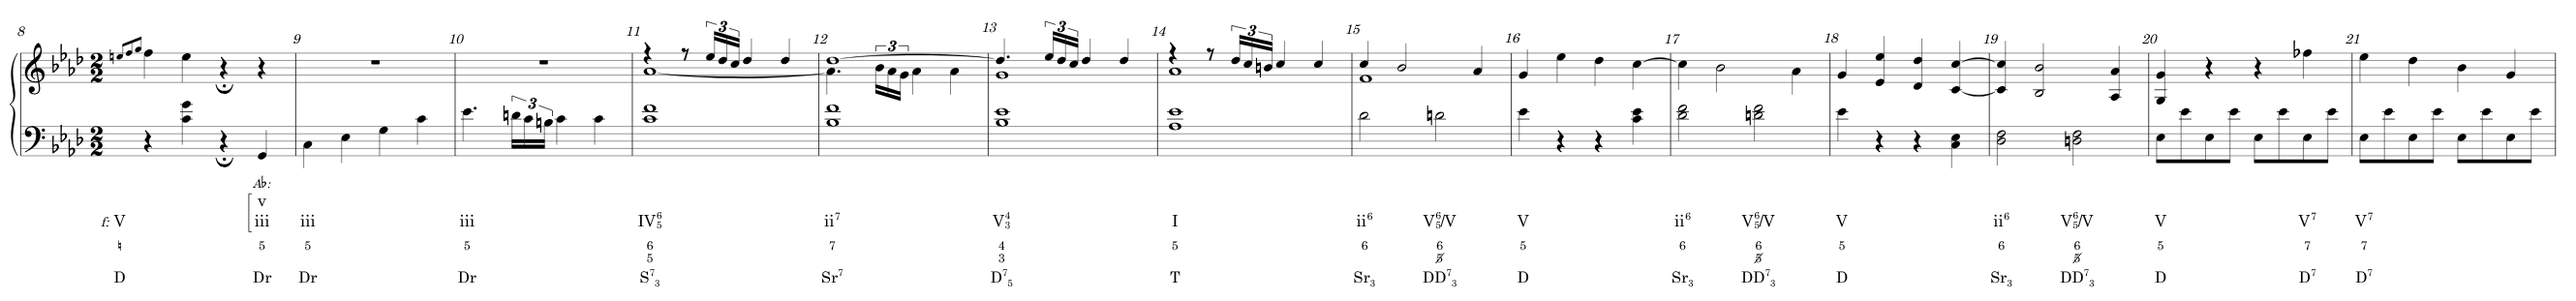
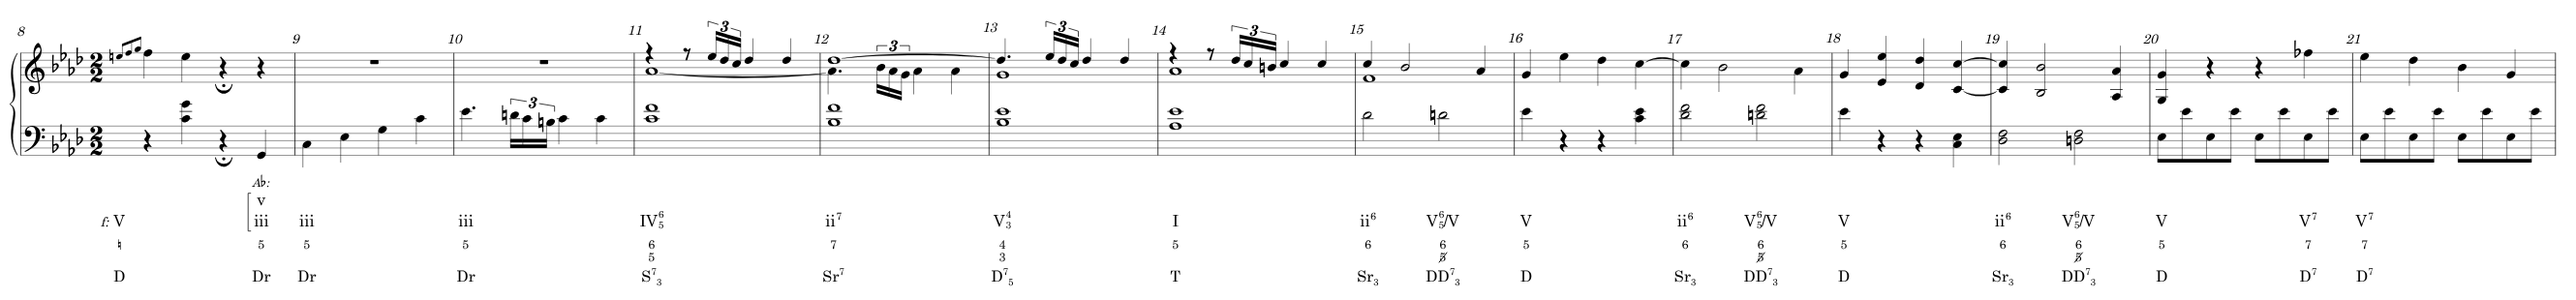
Versión 0.8.10
leftMarginAccid dentro del rango de Verovio; documentación y referencias visuales
actualizadas (más aire ante las alteraciones; métricas de la auditoría sin cambios).

Claude-Session: https://claude.ai/code/session_01M5zyTbCSSNMFeYq5LHXTdr

diff --git a/web/version.js b/web/version.js
@@ -1,2 +1,2 @@
 // Generado por herramientas/sincronizar_version.py a partir de VERSION. No editar a mano.
-window.HF_VERSION='0.8.9';
+window.HF_VERSION='0.8.10';

diff --git a/docs/ESPECIFICACION_GRABADO_MUSICAL.md b/docs/ESPECIFICACION_GRABADO_MUSICAL.md
@@ -406,7 +406,9 @@ Formato de cada regla: **Descripción** · **Referencia** · **Comportamiento es
 ### G. Espaciado
 
 #### `N-ESP-1` — Aire alrededor de alteraciones y silencios
-- **Implementación.** `OPCIONES` (`leftMarginAccid`…). **Estado.** aplicada.
+- **Implementación.** `OPCIONES` (`leftMarginAccid` 2, `rightMarginAccid` 0,8, `leftMarginRest` 2, `rightMarginRest` 1).
+  Hasta la v0.8.9 `leftMarginAccid` valía 2,2, fuera del rango de Verovio (0-2): lo rechazaba y usaba su valor por defecto
+  (1). `prueba_notacion.js` comprueba ahora el rango de todas las opciones. **Estado.** aplicada.
 
 #### `N-ESP-2` — Espaciado horizontal proporcional
 - **Descripción.** Más espacio para las duraciones largas, con la duración breve más frecuente como base.
@@ -509,7 +511,9 @@ Formato de cada regla: **Descripción** · **Referencia** · **Comportamiento es
 - **Verovio decide las capas por número de voz**: por eso `N-VOC-4` renumera las voces de las reconstrucciones y `N-PLICA-2`
   escribe `<stem>` explícito en lugar de depender del orden del archivo.
 - **`beamMaxSlope` sin efecto medible** sobre la pendiente de las barras (1 a 20); solo 0 aplana todas (`NOTACION.md`).
-- **Márgenes de alteraciones** (`leftMarginAccid`…): apenas reducen los choques; `N-ALT-1` necesita otra vía.
+- **Márgenes de alteraciones** (`leftMarginAccid`…): su máximo es 2; con 2 (en vez del 1 efectivo hasta la v0.8.9) los choques
+  de alteraciones de la muestra estándar no cambian (1 y 1); `N-ALT-1` necesita otra vía.
+- **Opciones fuera de rango**: Verovio las rechaza con un aviso en la consola y sigue con el valor por defecto.
 - **Ligaduras**: Verovio no aparta las ligaduras de unión de plicas y corchetes de notas muy juntas; no hay opción
   equivalente → `N-LIG-2` en SVG.
 - **Silencios entre capas**: Verovio no siempre evita las notas de otra capa → `N-SIL-2` en SVG.

diff --git a/CHANGELOG.md b/CHANGELOG.md
@@ -8,6 +8,11 @@ La versión vigente está en el archivo [`VERSION`](VERSION), que es la única f
 
 ## [Unreleased]
 
+## [0.8.10] - 2026-11-07
+
+### Fixed
+- Opción de grabado `leftMarginAccid` (aire a la izquierda de las alteraciones): valía 2,2, por encima del máximo que admite Verovio (2), que la rechazaba con un aviso en la consola y usaba su valor por defecto (1). Ahora vale 2: algo más de espacio delante de las alteraciones, que redistribuye ligeramente el espaciado de los compases; las métricas de la auditoría no cambian (alteraciones que chocan: 1 y 1 en la muestra estándar). `herramientas/prueba_notacion.js` comprueba que todas las opciones de Verovio existen y están dentro de su rango.
+
 ## [0.8.9] - 2026-11-07
 
 ### Added
@@ -306,7 +311,8 @@ La versión vigente está en el archivo [`VERSION`](VERSION), que es la única f
 - Portada con nombre, autor y enlace a la versión en línea.
 - Publicación en GitHub Pages: la raíz abre la aplicación (`web/`) y script `herramientas/publicar_pages.sh`.
 
-[Unreleased]: https://github.com/enavcap/HarmonyFinder/compare/v0.8.9...HEAD
+[Unreleased]: https://github.com/enavcap/HarmonyFinder/compare/v0.8.10...HEAD
+[0.8.10]: https://github.com/enavcap/HarmonyFinder/compare/v0.8.9...v0.8.10
 [0.8.9]: https://github.com/enavcap/HarmonyFinder/compare/v0.8.8...v0.8.9
 [0.8.8]: https://github.com/enavcap/HarmonyFinder/compare/v0.8.7...v0.8.8
 [0.8.7]: https://github.com/enavcap/HarmonyFinder/compare/v0.8.6...v0.8.7

diff --git a/docs/NOTACION.md b/docs/NOTACION.md
@@ -202,7 +202,7 @@ Probado en la misma muestra, cambiando solo la opción (`OPC=…`):
   aplanar todas las barras. No se ha investigado la causa dentro de Verovio (hipótesis sin comprobar: el ajuste posterior a la
   longitud mínima de las plicas supera el tope). La vía que queda es recalcular barras y plicas en el SVG o en MEI (`@stem.len`).
 - `slurMargin` 3, `slurCurveFactor` 1,6, `slurSymmetry` 0,2: las ligaduras que chocan **suben** (7 → 12 en originales).
-- `leftMarginAccid` 3,2 / `rightMarginAccid` 1,2: las alteraciones que chocan pasan de 2 a 1 en originales y no cambian en
+- *(Nota de la v0.8.10: este experimento no midió nada: `leftMarginAccid` admite como máximo 2 y Verovio rechaza 3,2; el valor del proyecto, 2,2, tampoco se aplicaba. Corregido a 2: sin cambios en las métricas.)* `leftMarginAccid` 3,2 / `rightMarginAccid` 1,2: las alteraciones que chocan pasan de 2 a 1 en originales y no cambian en
   reconstrucciones (12); `leftMarginChord` 2: sin efecto. Es una mejora demasiado pequeña para cambiar el valor por defecto.
 - `ledgerLineExtension` 0,3: sin diferencia apreciable en las líneas adicionales de notas contiguas.
 
